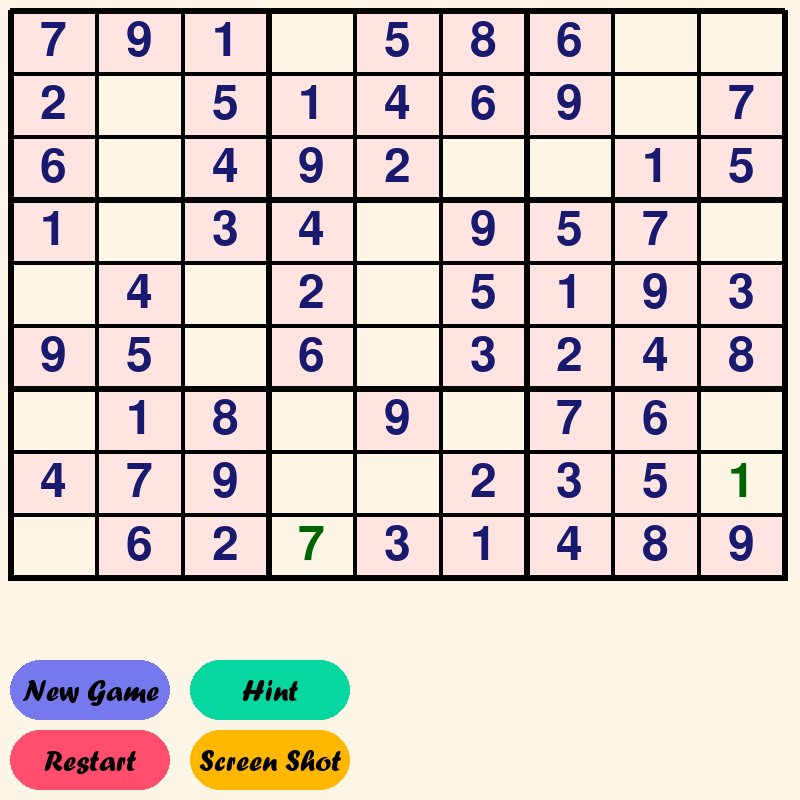
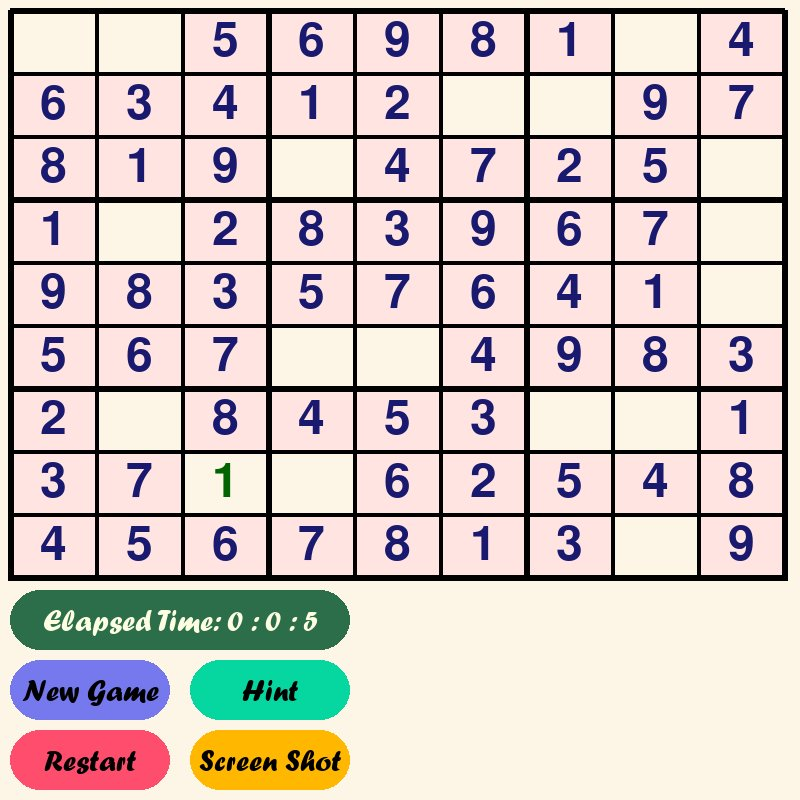
Elapse Time Added Completely

diff --git a/main_DanesH.py b/main_DanesH.py
@@ -3,8 +3,9 @@ import sys
 from dokusan import generators, renderers, solvers
 from dokusan.boards import BoxSize, Sudoku
 import numpy as np
-from time import sleep
+from time import sleep, time
 from pygame.rect import *
+
 
 SIZE = (800, 800)
 Width, Height = SIZE
@@ -26,7 +27,6 @@ Orginal_Sudoko_number_color = (25, 25, 112)
 background_color = MY_COLOR
 
 Margin = Width // 80
-
 
 Button_Border = 0
 Button_Width = int(Width / 5)
@@ -108,7 +108,25 @@ Screen_Shot = {
     "font_size": 30,
 }
 
-# --------------------------- __NEW__ -------------------------- #
+Time_Elapsed = {
+    "left":  Margin,
+    "top": Height
+    - Margin
+    - Button_Border * 6
+    - Button_Height * 3
+    - Vertical_Space_Between_Buttons * 2,
+    "width": 2 * Button_Width + Horizontal_Space_Between_Buttons,
+    "height": Button_Height,
+    "border": Button_Border,
+    "color_inactive": "#6c757d",
+    "color_active": "#",
+    "border_color": background_color,
+    "text": "",
+    "text_color_inactive": "#fefee3",
+    "text_color_active": "#",
+    "font": "FORTE.ttf",
+    "font_size": 30,
+}
 
 
 def draw_button(Button_Name, screen,  mouse_over=0):
@@ -214,7 +232,7 @@ def draw_text(screen, text, pos, color):
 
 def insert(screen, position, margin, Horizental_diff, Vertical_diff, bottom_margin,
            curr_sudoko_table, solution_sudoko, rects,  totall_mistakes, orginal_sudoko, hint_numbers, new_game_sound,
-           ss_sound, res_sound, hint_sound):
+           ss_sound, res_sound, hint_sound, start):
 
     i, j = position[1], position[0]
 
@@ -233,6 +251,15 @@ def insert(screen, position, margin, Horizental_diff, Vertical_diff, bottom_marg
              Horizental_diff, Vertical_diff, margin, bottom_margin)
 
     while True:
+
+        elapsed = round(time() - start) - 1
+        Time_Elapsed[
+            "text"
+        ] = f"Elapsed Time: {(elapsed // 60)//60 } : {elapsed // 60 } : {elapsed % 60}"
+        time_elapsed_btn = draw_button(
+            Time_Elapsed, screen=screen
+        )
+
         if totall_mistakes >= 3:
             pygame.quit()
             sys.exit()
@@ -384,7 +411,7 @@ def insert(screen, position, margin, Horizental_diff, Vertical_diff, bottom_marg
                     totall_mistakes, tmp, hint_numbers = insert(screen, pos, margin, Horizental_diff, Vertical_diff, bottom_margin,
                                                                 tmp, solution_sudoko, rects,  totall_mistakes,
                                                                 orginal_sudoko, hint_numbers, new_game_sound,
-                                                                ss_sound, res_sound, hint_sound)
+                                                                ss_sound, res_sound, hint_sound, start)
 
                     return totall_mistakes, tmp, hint_numbers
 
@@ -489,6 +516,7 @@ def main(initial_sudoko=np.zeros((9, 9), dtype=int)):
     pygame.display.set_caption("SUDOKU")
     screen.fill(background_color)
     pygame.display.update()
+    start = time()
 
     orginal_sudoko, solution_sudoko, margin, Horizental_diff, Vertical_diff, bottom_margin, rects = add_grid(
         screen, initial_sudoko)
@@ -503,6 +531,14 @@ def main(initial_sudoko=np.zeros((9, 9), dtype=int)):
     tmp = orginal_sudoko.copy()
 
     while True:
+
+        elapsed = round(time() - start) - 1
+        Time_Elapsed[
+            "text"
+        ] = f"Elapsed Time: {(elapsed // 60)//60 } : {elapsed // 60 } : {elapsed % 60}"
+        time_elapsed_btn = draw_button(
+            Time_Elapsed, screen=screen
+        )
 
         new_game_btn = draw_button(New_Game, screen=screen)
         restart_game_btn = draw_button(Restart_Game, screen=screen)
@@ -533,7 +569,7 @@ def main(initial_sudoko=np.zeros((9, 9), dtype=int)):
                         totall_mistakes, tmp, hint_numbers = insert(screen, pos, margin, Horizental_diff, Vertical_diff,
                                                                     bottom_margin, tmp, solution_sudoko, rects,
                                                                     totall_mistakes,  orginal_sudoko, hint_numbers, new_game_sound,
-                                                                    ss_sound, res_sound, hint_sound)
+                                                                    ss_sound, res_sound, hint_sound, start)
                         tmp = tmp
 
                     elif new_game_btn.collidepoint(pygame.mouse.get_pos()):
@@ -571,28 +607,6 @@ def main(initial_sudoko=np.zeros((9, 9), dtype=int)):
 
                 pygame.quit()
                 sys.exit()
-
-            # if event.type == pygame.MOUSEBUTTONUP:
-
-            #     if new_game_btn.collidepoint(pygame.mouse.get_pos()):
-            #         new_game_btn = draw_button(New_Game, screen=screen)
-            #         pygame.display.flip()
-            #         sleep(0.1)
-            #         main()
-
-            #     elif restart_game_btn.collidepoint(pygame.mouse.get_pos()):
-            #         restart_game_btn = draw_button(Restart_Game, screen=screen)
-            #         pygame.display.flip()
-            #         sleep(0.1)
-            #         main(orginal_sudoko)
-
-            #     elif screen_shot_btn.collidepoint(pygame.mouse.get_pos()):
-            #         screen_shot_btn = draw_button(Screen_Shot, screen=screen)
-            #         pygame.display.flip()
-            #         ss_sound = pygame.mixer.Sound("ScreenShot.wav")
-            #         ss_sound.play()
-            #         pygame.image.save(screen, "ScreenShot.jpg")
-            #         sleep(0.1)
 
         pygame.display.flip()
 
